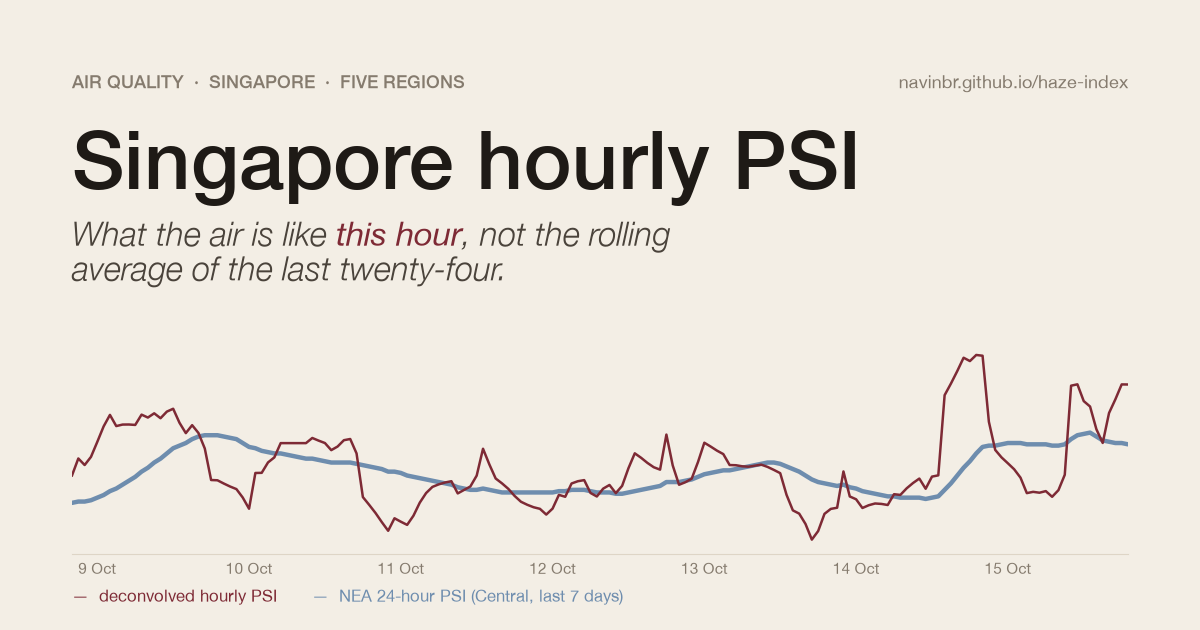
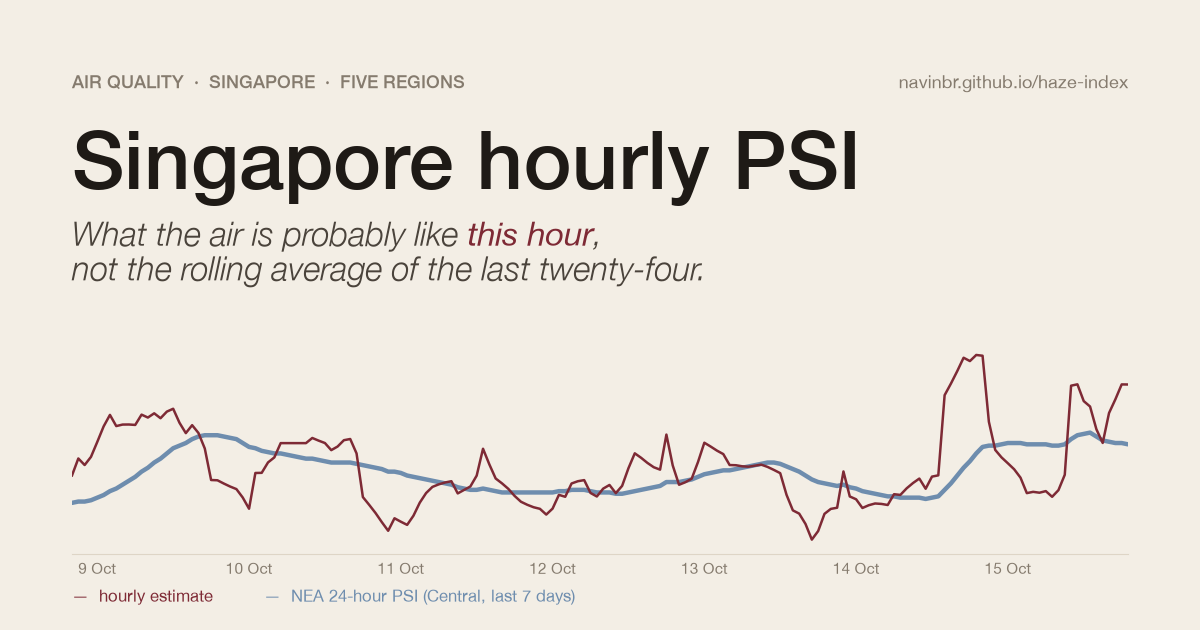
Mobile fixes: one card per row on phones, locked charts with range buttons; subtitle wording

Changed region(s): [[0.0617, 0.3317, 0.5858, 0.4524], [0.0617, 0.9349, 0.5242, 0.9651]]

diff --git a/index.html b/index.html
@@ -10,11 +10,11 @@
 <link rel="canonical" href="https://navinbr.github.io/haze-index/">
 <meta property="og:type" content="website"><meta property="og:url" content="https://navinbr.github.io/haze-index/">
 <meta property="og:title" content="Singapore hourly PSI"><meta property="og:site_name" content="Haze Index">
-<meta property="og:description" content="What the air is like this hour, not the rolling average of the last twenty-four. Estimated hourly PSI for Singapore's five regions, from NEA data.">
+<meta property="og:description" content="What the air is probably like this hour, not the rolling average of the last twenty-four. Estimated hourly PSI for Singapore's five regions, from NEA data.">
 <meta property="og:image" content="https://navinbr.github.io/haze-index/og.png"><meta property="og:image:width" content="1200"><meta property="og:image:height" content="630">
 <meta property="og:image:alt" content="Singapore hourly PSI — hourly estimate shown alongside NEA's 24-hour PSI">
 <meta name="twitter:card" content="summary_large_image"><meta name="twitter:creator" content="@navinbrian">
-<meta name="twitter:title" content="Singapore hourly PSI"><meta name="twitter:description" content="What the air is like this hour, not the rolling average of the last twenty-four.">
+<meta name="twitter:title" content="Singapore hourly PSI"><meta name="twitter:description" content="What the air is probably like this hour, not the rolling average of the last twenty-four.">
 <meta name="twitter:image" content="https://navinbr.github.io/haze-index/og.png">
 <script type="application/ld+json">{"@context": "https://schema.org", "@type": "WebApplication", "name": "Singapore hourly PSI", "url": "https://navinbr.github.io/haze-index/", "description": "Estimated hourly PSI for Singapore's five regions, deconvolved in your browser from NEA's 24-hour rolling PSI \u2014 with NEA's own hourly PM2.5 for comparison. Independent, unofficial.", "applicationCategory": "Weather", "operatingSystem": "Any (web browser)", "author": {"@type": "Person", "name": "Navin B Ramakrishna", "sameAs": "https://x.com/navinbrian"}, "isAccessibleForFree": true, "offers": {"@type": "Offer", "price": "0", "priceCurrency": "SGD"}}</script>
 <meta name="author" content="Navin B Ramakrishna">
@@ -104,7 +104,7 @@ h1 em{font-style:normal;color:var(--burgundy)}
 .essay b{font-weight:500;color:var(--ink)}
 .essay a{color:var(--burgundy);text-underline-offset:2px}
 .essay code{font-family:"SF Mono",Menlo,monospace;font-size:13.5px;background:var(--sand);padding:1px 6px;border-radius:5px;color:var(--ink)}
-.eq{background:var(--paper);border:1px solid var(--rule2);border-radius:12px;padding:16px 20px;font-size:15px;color:var(--ink);margin:14px 0;font-weight:400}
+.eq{overflow-x:auto;-webkit-overflow-scrolling:touch;background:var(--paper);border:1px solid var(--rule2);border-radius:12px;padding:16px 20px;font-size:15px;color:var(--ink);margin:14px 0;font-weight:400}
 table.vt{border-collapse:collapse;width:100%;margin:16px 0;font-size:14.5px}
 .vt th{font-size:11px;font-weight:500;letter-spacing:.12em;text-transform:uppercase;color:var(--mut);text-align:left;padding:8px 0;border-bottom:1px solid var(--ink2)}
 .vt td{padding:10px 0;border-bottom:1px solid var(--rule);color:var(--ink2)}
@@ -122,20 +122,6 @@ footer .meta{text-align:right;line-height:1.7;max-width:560px}
 footer .meta>div+div{margin-top:6px}
 footer .meta a{color:var(--ink2);text-decoration:underline;text-decoration-color:var(--rule);text-underline-offset:2px}
 .err{color:var(--rust);font-weight:500}
-@media(max-width:560px){
- .wrap{padding:0 max(18px,env(safe-area-inset-right)) 0 max(18px,env(safe-area-inset-left))}
- .bar .wrap{height:52px}.brand span{display:none}.live{font-size:12px}
- .hero{padding:40px 0 28px}.dek{font-size:17px}.lede .big{font-size:72px}
- .grid{grid-template-columns:1fr;grid-template-areas:"central" "north" "east" "west" "south";gap:10px}
- .card{padding:16px 18px 14px}.card .big{font-size:52px}.card:hover{transform:none;box-shadow:none}
- .sec{padding:36px 0 4px;flex-direction:column;gap:4px}.sec h2{font-size:22px}
- .panel{padding:16px 14px 8px;border-radius:14px}.ph{flex-direction:column;align-items:flex-start}
- .seg{max-width:100%;overflow-x:auto;-webkit-overflow-scrolling:touch}.seg button{padding:6px 11px}
- #chart{height:340px!important}#chartAll{height:240px!important}
- .essay{padding:40px 0 16px;margin-top:40px}.essay .body{font-size:16px}
- footer{flex-direction:column;align-items:flex-start}footer .meta{text-align:left}
- .scale div{font-size:10px}.scale div b{font-size:10.5px}
-}
 @media(max-width:860px){.hero{grid-template-columns:1fr;gap:32px}.lede{border-left:0;padding-left:0;border-top:1px solid var(--rule);padding-top:24px}
  .grid{grid-template-columns:1fr 1fr;grid-template-areas:"north north" "west east" "central central" "south south"}
  .essay{grid-template-columns:1fr;gap:16px}.essay aside{position:static}.wrap{padding:0 20px}}
@@ -155,6 +141,25 @@ footer .meta a{color:var(--ink2);text-decoration:underline;text-decoration-color
 #cardsWrap{min-height:200px}
 .skel{background:var(--paper);border:1px solid var(--rule2);border-radius:14px;height:236px}
 @media(max-width:560px){.overlay .lbl{font-size:22px}.skel{height:200px}}
+/* phone rules last so they win over tablet rules */
+@media(max-width:560px){
+ .wrap{padding:0 max(18px,env(safe-area-inset-right)) 0 max(18px,env(safe-area-inset-left))}
+ .bar .wrap{height:52px}.brand span{display:none}.live{font-size:12px}
+ .hero{padding:40px 0 28px}.dek{font-size:17px}.lede .big{font-size:72px}
+ .grid{grid-template-columns:1fr;grid-template-areas:"central" "north" "east" "west" "south";gap:10px}
+ .card{padding:16px 18px 14px}.card .big{font-size:52px}.card:hover{transform:none;box-shadow:none}
+ .sec{padding:36px 0 4px;flex-direction:column;gap:4px}.sec h2{font-size:22px}
+ .panel{padding:16px 14px 8px;border-radius:14px}.ph{flex-direction:column;align-items:flex-start}
+ .seg{max-width:100%;overflow-x:auto;-webkit-overflow-scrolling:touch}.seg button{padding:6px 11px}
+ #chart{height:340px!important}#chartAll{height:240px!important}
+ .essay{padding:40px 0 16px;margin-top:40px}.essay .body{font-size:16px}
+ footer{flex-direction:column;align-items:flex-start}footer .meta{text-align:left}
+ .scale div{font-size:10px}.scale div b{font-size:10.5px}
+}
+html,body{overflow-x:clip}
+.essay code{overflow-wrap:anywhere}
+#chart,#chartAll,#chart .nsewdrag,#chartAll .nsewdrag,#chart .draglayer,#chartAll .draglayer{touch-action:pan-y!important}
+@media(max-width:560px){.eq{font-size:13px;padding:12px 14px}}
 </style></head><body>
 
 <div class="bar"><div class="wrap"><div class="brand">Haze Index<span>Singapore · hourly</span></div>
@@ -164,7 +169,7 @@ footer .meta a{color:var(--ink2);text-decoration:underline;text-decoration-color
   <div>
    <div class="eyebrow">Air quality · Five regions · Updated hourly</div>
    <h1>Singapore hourly PSI</h1>
-   <p class="sub">What the air is like <em>this hour</em>, not the rolling average of the last twenty-four.</p>
+   <p class="sub">What the air is probably like <em>this hour</em>, not the rolling average of the last twenty-four.</p>
    <p class="dek">NEA reports Singapore's PSI as a 24-hour rolling average, the measure used for health advisories. This page is a personal exploration of the same open data hour by hour: it works backwards from the 24-hour figures to estimate an hourly value for each region, updated whenever NEA publishes a new reading.</p>
    <div class="scale" id="scale"></div>
   </div>
@@ -174,8 +179,8 @@ footer .meta a{color:var(--ink2);text-decoration:underline;text-decoration-color
  <div class="sec"><h2>By region</h2><div class="note" id="stamp"></div></div>
  <div class="busy-wrap" id="cardsWrap" data-busy><div class="grid" id="cards"><div class="skel" style="grid-area:north"></div><div class="skel" style="grid-area:west"></div><div class="skel" style="grid-area:central"></div><div class="skel" style="grid-area:east"></div><div class="skel" style="grid-area:south"></div></div></div>
 
- <div class="sec"><h2>The past seven days</h2><div class="note">Select a region</div></div>
- <div class="panel" data-busy>
+ <div class="sec"><h2 id="rangeTitle">The past seven days</h2><div class="seg" id="range"></div></div>
+ <div class="panel" data-busy id="chartPanel">
   <div class="ph"><h3 id="chartTitle">Central</h3><div class="seg" id="seg"></div></div>
   <div class="legend">
    <span><i style="border-color:var(--burgundy)"></i>Hourly estimate (from 24-hour data)</span>
@@ -298,7 +303,7 @@ function busyNote(t){ if(!BUSY_QUIET) setBusy(true,null,t,null); }
 
 const API='https://api-open.data.gov.sg/v2/real-time/api/';
 const REGIONS=['north','west','central','east','south'];
-const DAYS=8, SHOW_H=24*7;
+const DAYS=8; let SHOW_H=24*7;
 let selected='central', MODEL=null;
 const sgDate=off=>new Date(Date.now()+8*3600e3-off*86400e3).toISOString().slice(0,10);
 const sleep=ms=>new Promise(s=>setTimeout(s,ms));
@@ -371,16 +376,24 @@ function renderCards(){
      <dl><dt>NEA 24-hour PSI</dt><dd>${isFinite(z.p24[n-1])?z.p24[n-1]:'—'}</dd>
      <dt>PM2.5, estimated</dt><dd>${z.x25[n-1].toFixed(0)} <span>µg/m³</span></dd>
      <dt>PM2.5, NEA 1-hour</dt><dd>${isFinite(z.pm1[n-1])?z.pm1[n-1]+' <span>µg/m³</span>':'—'}</dd></dl>`;
-    div.onclick=()=>{selected=r;renderCards();renderSeg();renderChart();}; el.appendChild(div); }
+    div.onclick=()=>{selected=r;renderCards();renderSeg();renderChart(); if(isPhone()){ const t=document.getElementById('chartPanel'); if(t&&t.scrollIntoView) t.scrollIntoView({behavior:'smooth',block:'start'}); } }; el.appendChild(div); }
 }
 function renderSeg(){ const el=document.getElementById('seg'); el.innerHTML='';
   for(const r of REGIONS){ const b=document.createElement('button'); b.textContent=r; if(r===selected) b.className='on';
     b.onclick=()=>{selected=r;renderSeg();renderCards();renderChart();}; el.appendChild(b); } }
+
+const RANGES=[[24,'24 h','The past 24 hours'],[72,'3 days','The past three days'],[168,'7 days','The past seven days']];
+function renderRange(){ const el=document.getElementById('range'); if(!el) return; el.innerHTML='';
+  for(const [h,lab,title] of RANGES){ const b=document.createElement('button'); b.textContent=lab; if(h===SHOW_H){ b.className='on'; document.getElementById('rangeTitle').textContent=title; }
+    b.onclick=()=>{ SHOW_H=h; renderRange(); if(MODEL){ renderChart(); renderAll(); } }; el.appendChild(b); } }
+const isPhone=()=>window.innerWidth<560;
+function xFmt(){ return SHOW_H<=24? {tickformat:'%-I %p',hoverformat:'%a %-d %b, %-I %p',nticks:isPhone()?5:8}
+  : {tickformat:isPhone()?'%-d %b':'%a %-d %b',hoverformat:'%a %-d %b, %-I %p',nticks:isPhone()?5:(SHOW_H<=72?7:9)}; }
 const FONT='"Helvetica Neue", Helvetica, Arial, sans-serif';
 const baseLayout=(extra)=>Object.assign({paper_bgcolor:'rgba(0,0,0,0)',plot_bgcolor:'rgba(0,0,0,0)',
   font:{family:FONT,color:'#4A433B',size:12},margin:{l:40,r:8,t:8,b:34},showlegend:false,
-  xaxis:{type:'date',showgrid:false,linecolor:'#DED5C6',ticks:'outside',tickcolor:'#DED5C6',ticklen:4,tickformat:(window.innerWidth<560?'%-d %b':'%a %-d %b'),nticks:(window.innerWidth<560?5:9),hoverformat:'%a %-d %b, %-I %p'},
-  yaxis:{gridcolor:'#ECE5D9',zeroline:false,tickfont:{color:'#857B6E'}},
+  xaxis:Object.assign({type:'date',showgrid:false,linecolor:'#DED5C6',ticks:'outside',tickcolor:'#DED5C6',ticklen:4,fixedrange:true},xFmt()),dragmode:false,
+  yaxis:{gridcolor:'#ECE5D9',zeroline:false,fixedrange:true,tickfont:{color:'#857B6E'}},
   hovermode:'x unified',hoverlabel:{bgcolor:'#FAF7F1',bordercolor:'#DED5C6',font:{family:FONT,color:'#1E1A16',size:12}}},extra||{});
 function catShapes(ymax){ let lo=0; return CATS.map(c=>{ const s={type:'rect',xref:'paper',x0:0,x1:1,y0:lo,y1:Math.min(c[0],ymax),fillcolor:c[2],opacity:.055,line:{width:0},layer:'below'}; lo=c[0]; return s; }).filter(s=>s.y0<ymax); }
 function catLabels(ymax){ let lo=0; return CATS.map(c=>{ const top=Math.min(c[0],ymax), a={xref:'paper',x:1,xanchor:'right',y:(lo+top)/2,yanchor:'middle',text:c[1].toUpperCase(),showarrow:false,font:{family:FONT,size:9.5,color:c[3]},opacity:.75}; const ok=lo<ymax&&top-lo>18; lo=c[0]; return ok?a:null; }).filter(Boolean); }
@@ -394,13 +407,13 @@ function renderChart(){
    {x:X,y:sl(z.ref),mode:'lines',line:{color:'#4A433B',width:1.1,dash:'dot'},name:'NEA 1-h PM2.5 (PSI scale)',hovertemplate:'%{y:.0f}'},
    {x:X,y:sl(z.p24),mode:'lines',line:{color:'#6E8DAE',width:3,shape:'spline'},name:'NEA 24-h PSI',hovertemplate:'%{y:.0f}'},
    {x:X,y:sl(z.h),mode:'lines',line:{color:'#7E2A35',width:2},name:'Hourly estimate',hovertemplate:'<b>%{y:.0f}</b>'}],
-   baseLayout({shapes:catShapes(ymax),annotations:catLabels(ymax),yaxis:{gridcolor:'#ECE5D9',zeroline:false,range:[0,ymax],tickfont:{color:'#857B6E'}}}),{displayModeBar:false,responsive:true});
+   baseLayout({shapes:catShapes(ymax),annotations:catLabels(ymax),yaxis:{gridcolor:'#ECE5D9',zeroline:false,fixedrange:true,range:[0,ymax],tickfont:{color:'#857B6E'}}}),{displayModeBar:false,responsive:true,scrollZoom:false,doubleClick:false,showTips:false,staticPlot:false});
 }
 function renderAll(){
   const {grid,Z}=MODEL, n=grid.length, s=Math.max(0,n-SHOW_H), X=grid.slice(s).map(t=>new Date(t));
   document.getElementById('zleg').innerHTML=REGIONS.map(r=>`<span style="text-transform:capitalize"><i style="border-color:${ZCOL[r]}"></i>${r}</span>`).join('');
   Plotly.react('chartAll',REGIONS.map(r=>({x:X,y:Z[r].h.slice(s),mode:'lines',name:cap(r),line:{color:ZCOL[r],width:r===selected?2.2:1.4},hovertemplate:'%{y:.0f}'})),
-   baseLayout(),{displayModeBar:false,responsive:true});
+   baseLayout(),{displayModeBar:false,responsive:true,scrollZoom:false,doubleClick:false,showTips:false,staticPlot:false});
 }
 let lastStamp=null;
 async function refresh(force){
@@ -418,10 +431,11 @@ async function refresh(force){
 }
 let busy=false, lastRun=0;
 async function tick(force){ if(busy) return; busy=true; try{ await refresh(force); lastRun=Date.now(); } finally{ busy=false; } }
-renderScale(); setBusy(true,'Connecting to NEA','Loading the last 8 days of readings',0); tick(true); setInterval(()=>tick(false),10*60*1000);
+renderScale(); renderRange(); setBusy(true,'Connecting to NEA','Loading the last 8 days of readings',0); tick(true); setInterval(()=>tick(false),10*60*1000);
 document.addEventListener('visibilitychange',()=>{ if(document.visibilityState==='visible' && Date.now()-lastRun>5*60*1000) tick(false); });
 window.addEventListener('pageshow',e=>{ if(e.persisted) tick(false); });
 // re-layout charts on rotation
-window.addEventListener('orientationchange',()=>setTimeout(()=>{ if(MODEL){ Plotly.Plots.resize('chart'); Plotly.Plots.resize('chartAll'); } },300));
+let rsT=null, lastW=window.innerWidth; const onRs=()=>{ clearTimeout(rsT); rsT=setTimeout(()=>{ if(MODEL && Math.abs(window.innerWidth-lastW)>40){ lastW=window.innerWidth; renderChart(); renderAll(); } },250); };
+window.addEventListener('resize',onRs); window.addEventListener('orientationchange',onRs);
 
 </script></body></html>
